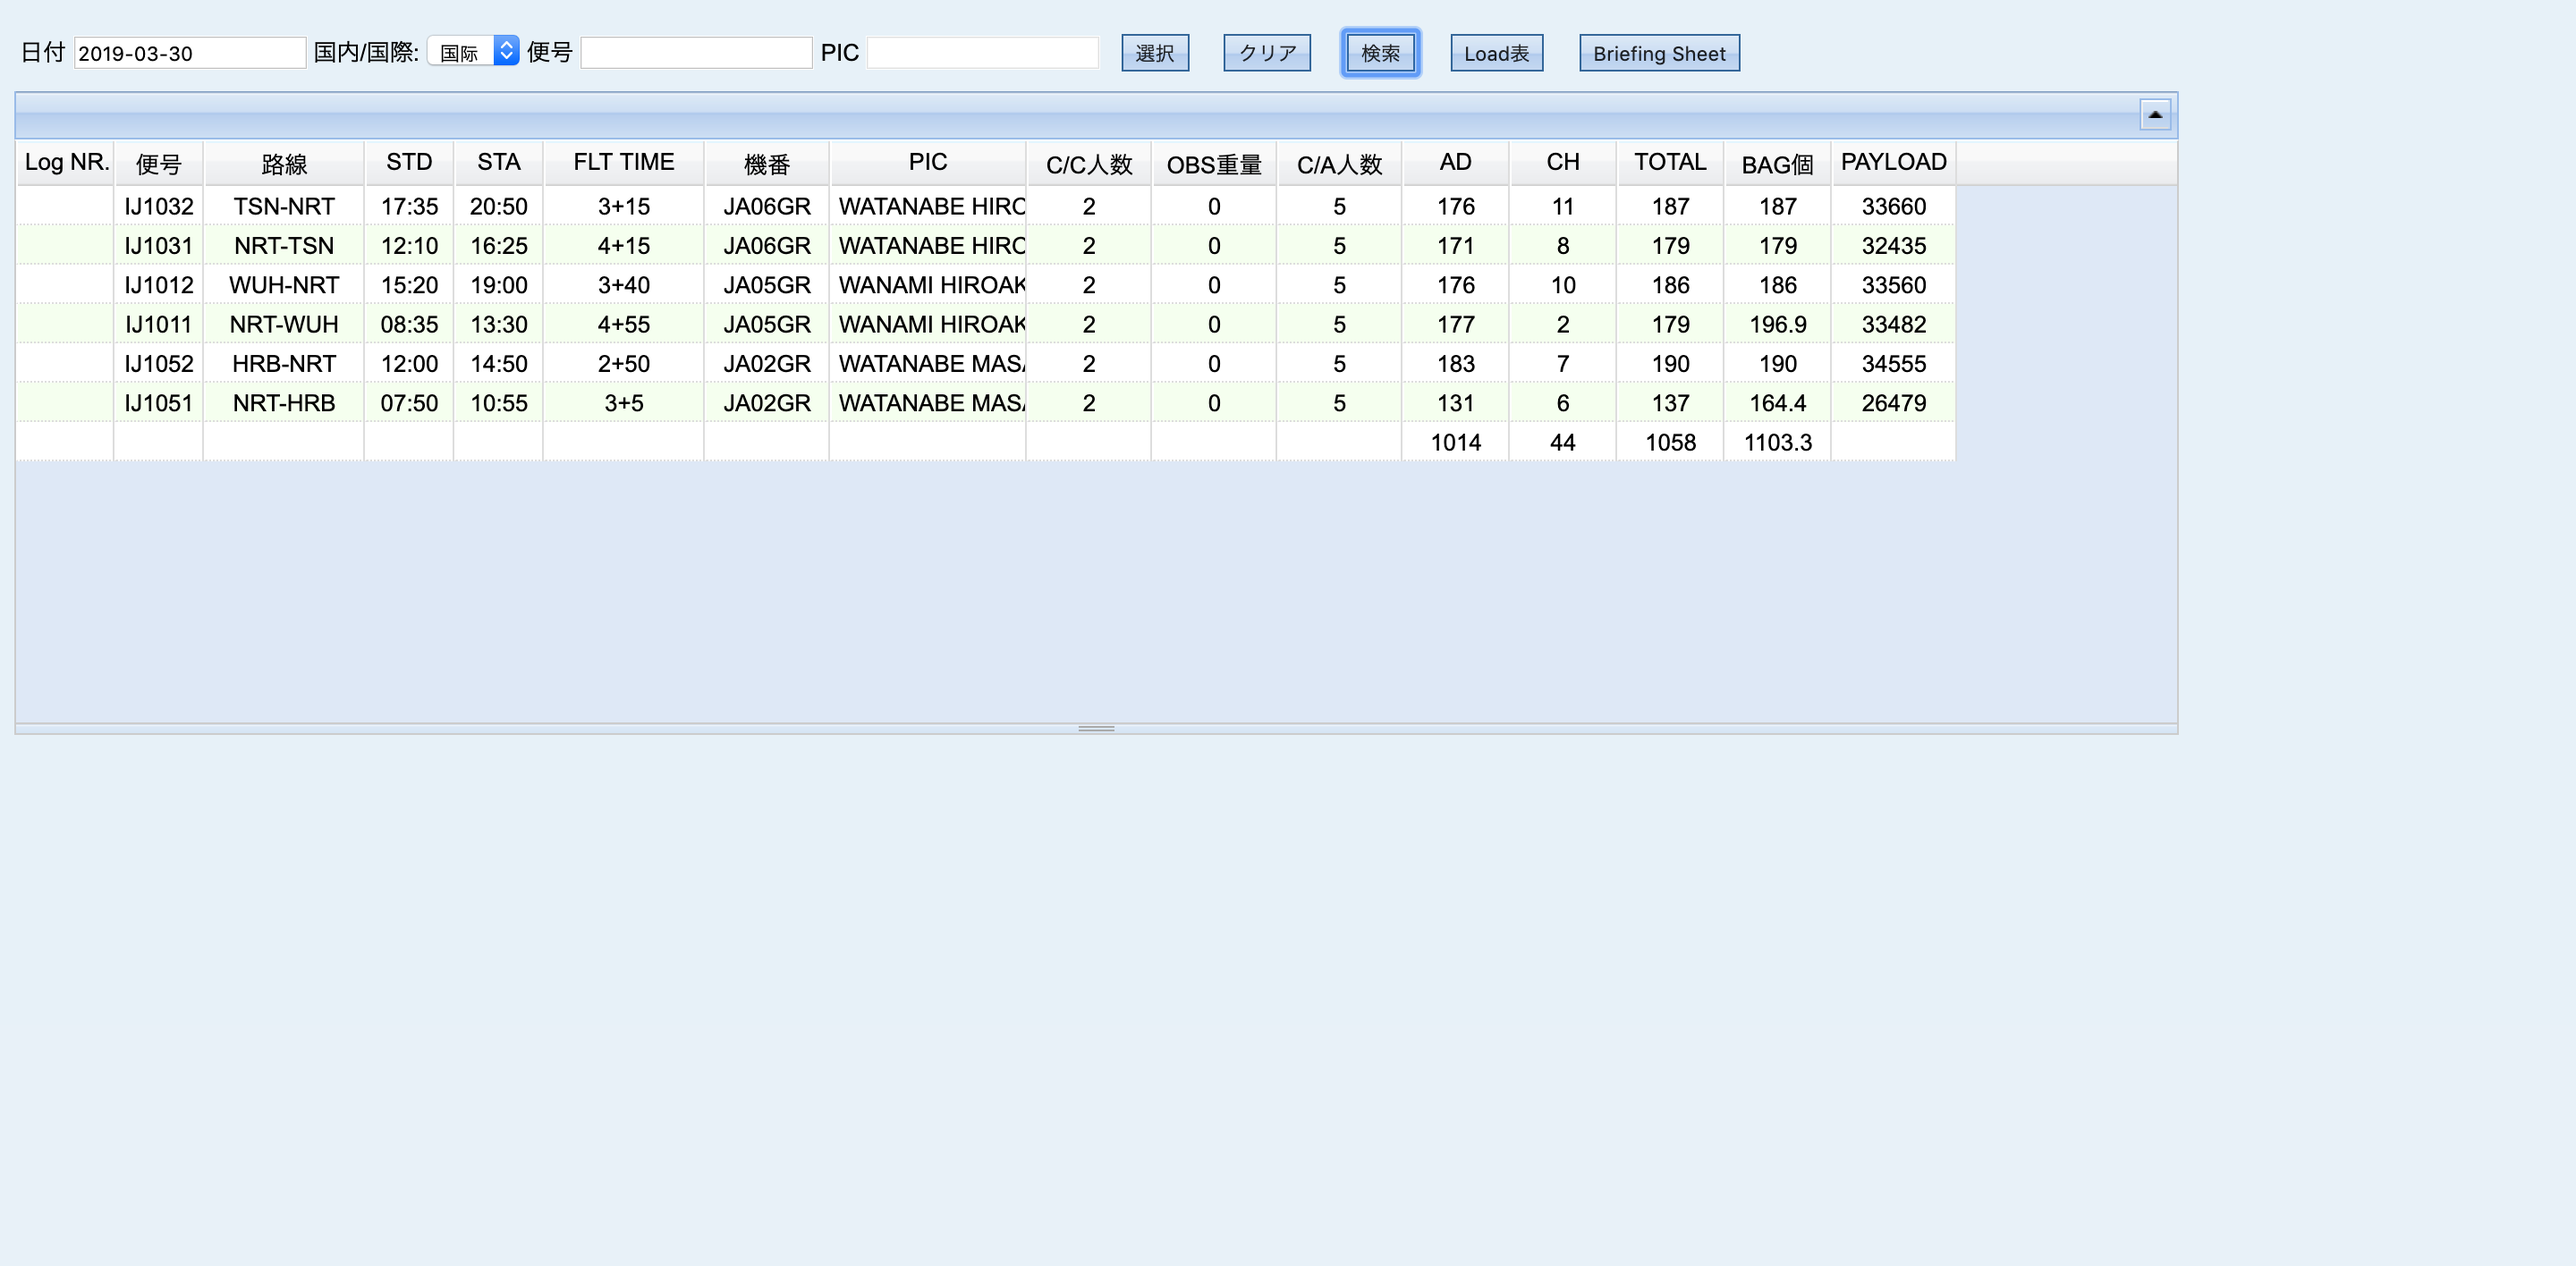
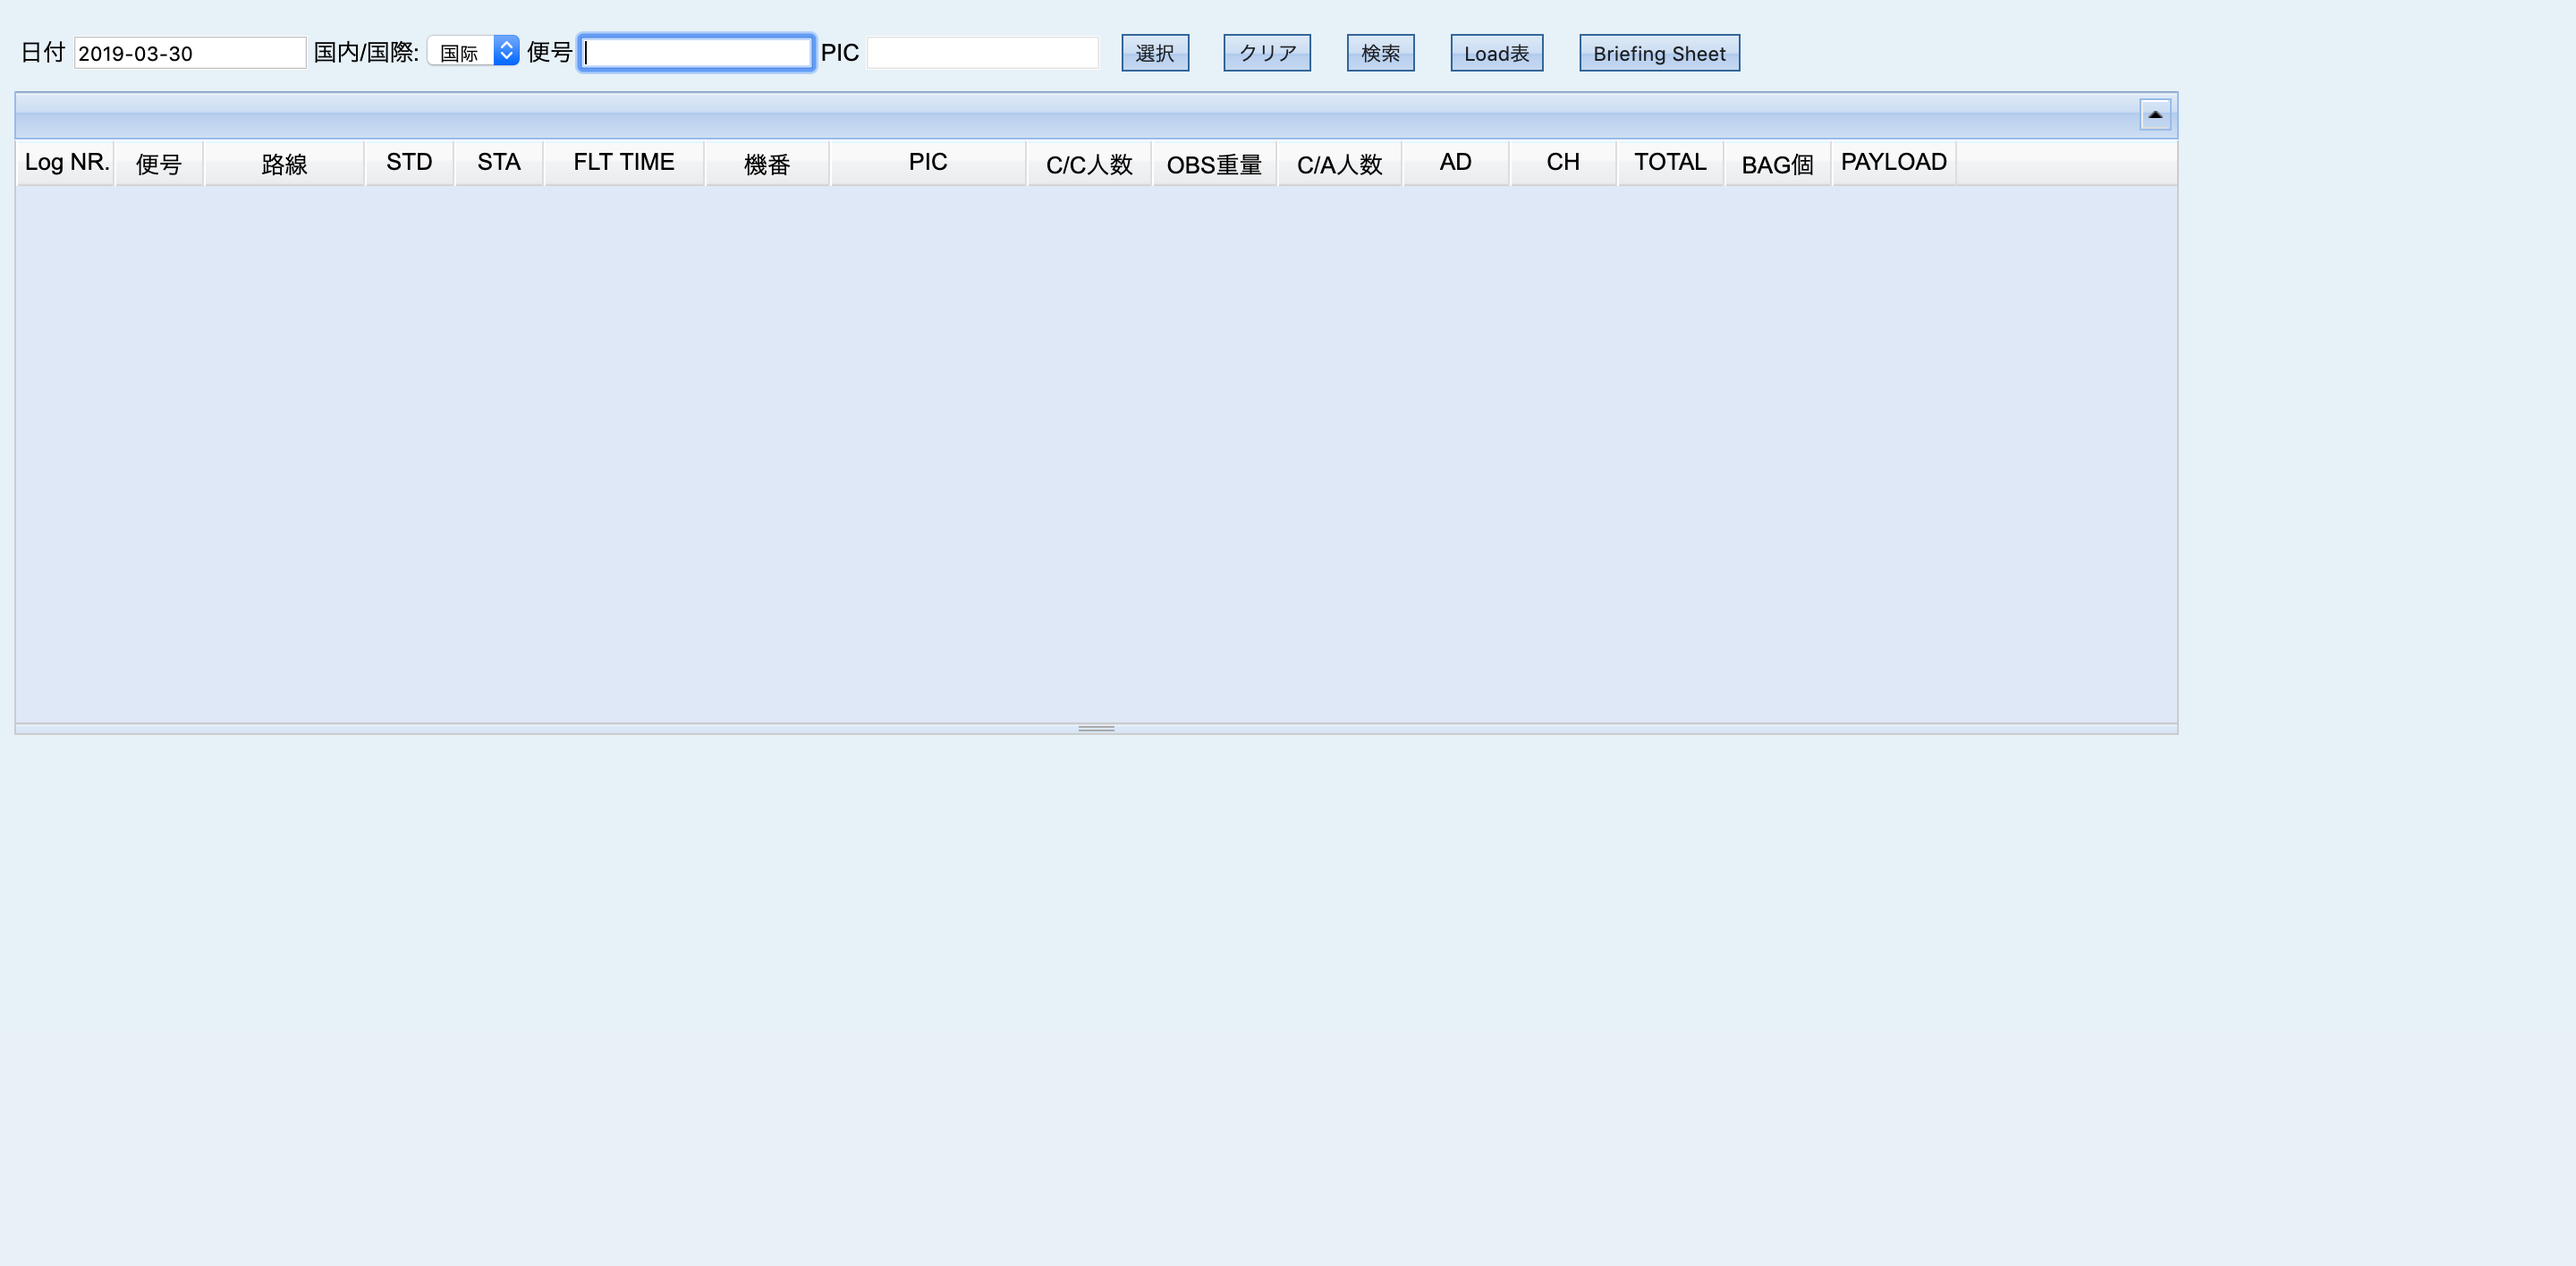
scraping test13

Changed region(s): [[0.0, 0.1243, 0.7812, 0.3729], [0.2188, 0.0, 0.3438, 0.0621], [0.5, 0.0, 0.5625, 0.0621]]

diff --git a/app/models/source_table.rb b/app/models/source_table.rb
@@ -40,17 +40,14 @@ class SourceTable
       driver.find_element(:xpath, '//*[@id="domInt"]/option[1]').click
 
       # ここまでok
-      sleep 3
-      driver.manage.window.maximize
+      driver.find_element(:xpath, '//*[@id="flightNo"]').click
       driver.find_element(:xpath, '//*[@id="search"]').click
-
-      driver.save_screenshot("screenshot.png")
 
       p ID
 
       wait.until { driver.find_element(id: 'flexTable').displayed? }
 
-      driver.save_screenshot("screenshot.png")
+      driver.save_screenshot("screenshot3.png")
 
       p ID
       p ID
@@ -64,7 +61,7 @@ class SourceTable
         table_tr = []
       end
 
-      driver.save_screenshot("screenshot.png")
+      driver.save_screenshot("screenshot4.png")
       p ID
       p ID
       p ID
@@ -81,10 +78,11 @@ class SourceTable
       # 国内線data取得
       n = 2
       driver.find_element(:xpath, "//*[@id=\"domInt\"]/option[#{n}]").click
+      driver.find_element(:xpath, '//*[@id="flightNo"]').click
       driver.find_element(:xpath, '//*[@id="search"]').click
       wait.until { driver.find_element(id: 'flexTable').displayed? }
 
-      driver.save_screenshot("screenshot2.png")
+      driver.save_screenshot("screenshot5.png")
 
       doc = Nokogiri::HTML(driver.page_source)
       doc.xpath('//*[@id="flexTable"]/tbody/tr').each do |tr|
